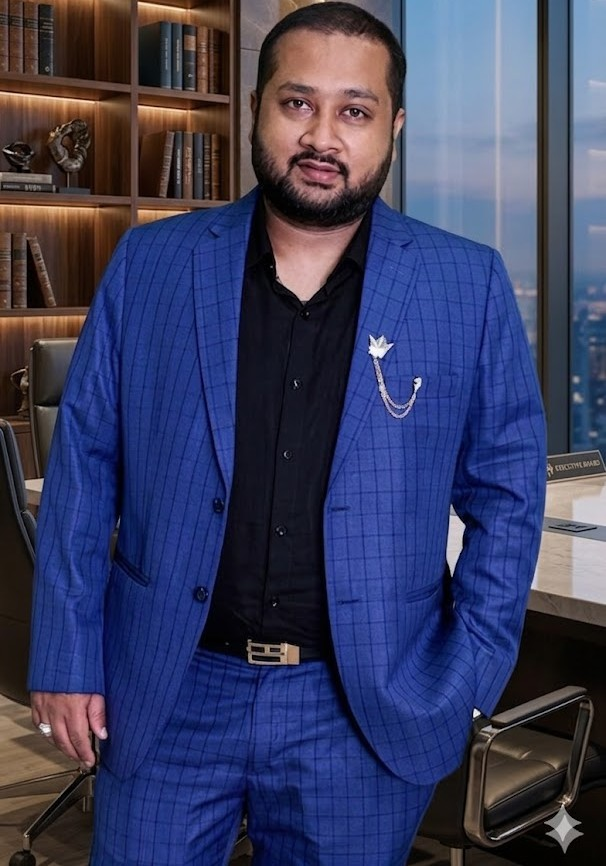
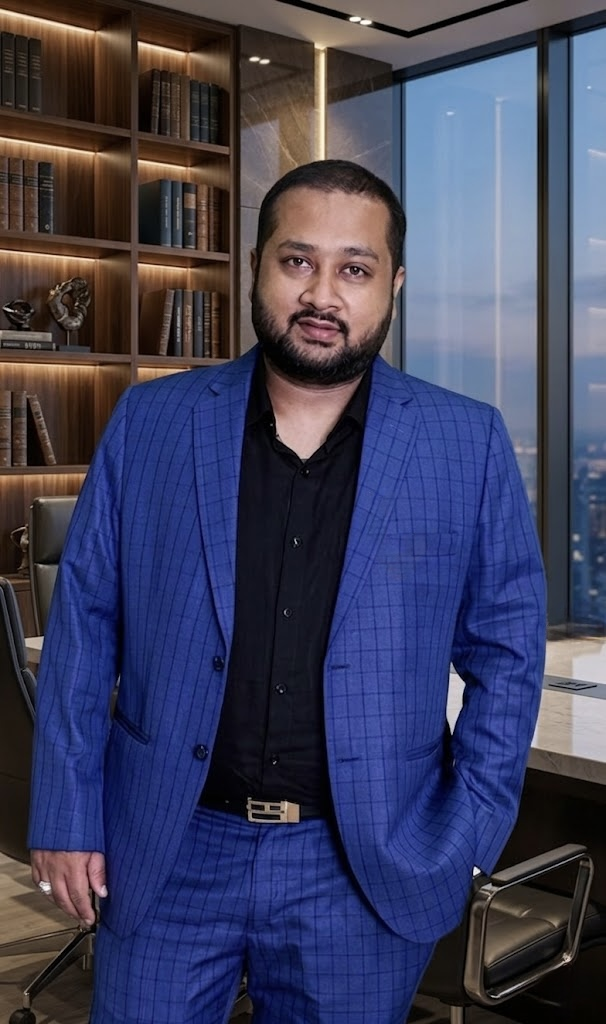
feat: add leadership section with team member profiles and associated staff images

diff --git a/components/team/LeadershipSection.tsx b/components/team/LeadershipSection.tsx
@@ -177,6 +177,57 @@ const leaders: TeamMember[] = [
     linkedin: "#",
     expertises: ["Marketing Strategy", "Team Leadership", "Market Analysis"],
     certifications: ["Certified Marketing Manager"],
+  },{
+    id:"l14",
+    name:"Asralan Ali Khan",
+    title:"Marketing Operations Manager",
+    image:"/staff/arsalanalikhan.jpeg",
+    summary:
+      "Asralan Ali Khan is the marketing operations manager of Deccan Heights. He is responsible for the overall marketing operations of the company.",
+    bio:"Asralan Ali Khan is the marketing operations manager of Deccan Heights. He is responsible for the overall marketing operations of the company. He has a background in marketing operations and has a proven track record of success in the real estate industry.",
+    email:"asralan@deccanheights.com",
+    linkedin:"#",
+    expertises:["Marketing Operations","Team Leadership","Market Analysis"],
+    certifications:["Certified Marketing Operations Manager"],
+  },
+  {
+    id:"l15",
+    name:"Mohammed Jameeluddin",
+    title:"Lead Project Developer",
+    image:"/staff/Mohammed Jameeluddin.jpeg",
+    summary:
+      "Mohammed Jameeluddin is the lead project developer of Deccan Heights. He is responsible for the overall development of the company.",
+    bio:"Mohammed Jameeluddin is the lead project developer of Deccan Heights. He is responsible for the overall development of the company. He has a background in project development and has a proven track record of success in the real estate industry.",
+    email:"jameeluddin@deccanheights.com",
+    linkedin:"#",
+    expertises:["Project Development","Team Leadership","Market Analysis"],
+    certifications:["Certified Project Developer"],
+  },
+  {
+    id:"l16",
+    name:"Syed Wajid Hussain",
+    title:"General Manager",
+    image:"/staff/Syed Wajid Hussain.jpeg",
+    summary:
+      "Syed Wajid Hussain is the general manager of Deccan Heights. He is responsible for the overall operations of the company.",
+    bio:"Syed Wajid Hussain is the general manager of Deccan Heights. He is responsible for the overall operations of the company. He has a background in operations management and has a proven track record of success in the real estate industry.",
+    email:"wajid@deccanheights.com",
+    linkedin:"#",
+    expertises:["Operations Management","Team Leadership","Market Analysis"],
+    certifications:["Certified Operations Manager"],
+  },
+  {
+    id:"l17",
+    name:"Syed Majid",
+    title:"Public Relation Officer",
+    image:"/staff/Syed Majid.jpeg",
+    summary:
+      "Syed Majid is the public relation officer of Deccan Heights. He is responsible for the overall public relation of the company.",
+    bio:"Syed Majid is the public relation officer of Deccan Heights. He is responsible for the overall public relation of the company. He has a background in public relation management and has a proven track record of success in the real estate industry.",
+    email:"majid@deccanheights.com",
+    linkedin:"#",
+    expertises:["Public Relation Management","Team Leadership","Market Analysis"],
+    certifications:["Certified Public Relation Officer"],
   }
 
 ];
